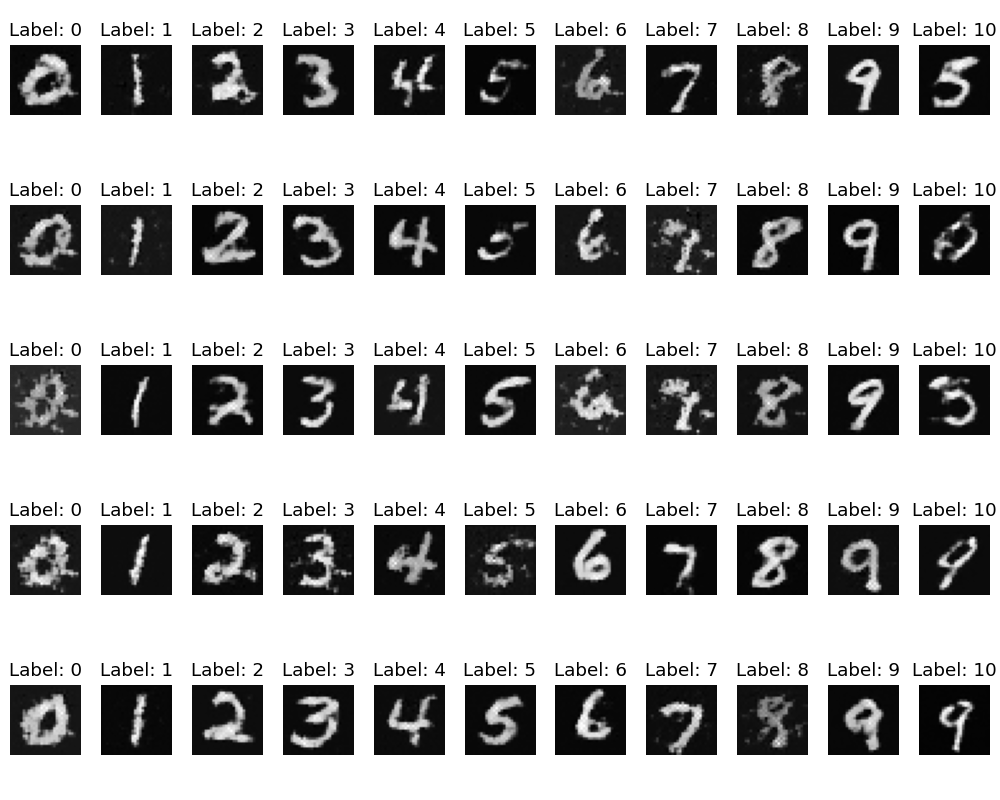
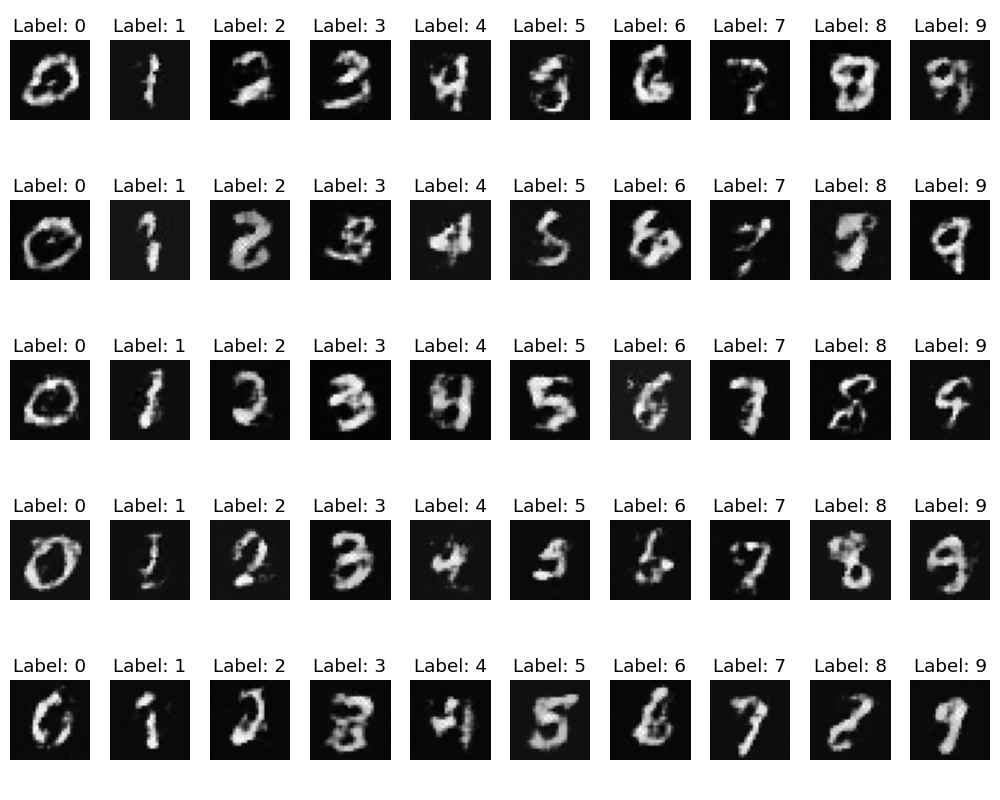
classifier guided generation

diff --git a/models/MLPFiLM.py b/models/MLPFiLM.py
@@ -17,33 +17,49 @@ class FourierFeatures(nn.Module):
 
 
 class MLPFiLM(nn.Module):
-    def __init__(self, dim=512, num_classes=11, blocks=10):
+    def __init__(self, dim=512, num_classes=10, blocks=10):
         super().__init__()
         # time → film
         self.time_embed = FourierFeatures(dim=dim)
-        # label → film
-        self.label_embed = nn.Embedding(num_classes, dim)
-        # label projection to match film dimension
-        self.label_proj  = nn.Linear(dim, dim*2)
-
         # residual blocks
         layers = [ResBlock(dim)
                   for i in range(blocks)]
         self.net   = nn.Sequential(*layers)
         self.final = nn.Linear(dim, dim)
 
-    def forward(self, x, y, t):
-        # x: [B,256], t: [B,1], y: [B] (long)
+
+        # classifier
+        self.classifier = Classifier(dim=dim, num_classes=num_classes)
+
+    def forward(self, x, t):
+        # x: [B,256], t: [B,1],
         # 1) time embedding τ(t)
-        film_time = self.time_embed(t) # [B,2*dim]
-        # 2) label embedding
-        y = self.label_embed(y).view(-1, self.label_embed.embedding_dim) # [B,dim]
-        film_label= self.label_proj(y) # [B,2*dim]
-        film = film_time + film_label          # [B,2*dim]
+        gen = x
+        film = self.time_embed(t) # [B,2*dim]
         # 3) pass through ResBlocks
         for block in self.net:
-            x = block(x, film)
-        return self.final(x)
+            gen = block(gen, film)
+        return self.final(gen), self.classifier(x, film)
+
+
+class Classifier(nn.Module):
+    def __init__(self, dim=512, num_classes=10):
+        super().__init__()
+        self.lin1 = nn.Linear(dim, dim)
+        self.lin2 = nn.Linear(dim, dim)
+        self.classifier = nn.Linear(dim, num_classes)
+        self.norm = nn.LayerNorm(dim)
+
+    def forward(self, x, film):
+        # film: [B,2*dim] → scale, shift of [B,dim]
+        scale, shift = film.chunk(2, dim=-1)
+        h = self.lin1(x)
+        h = F.silu(h)
+        h = self.lin2(h)
+        # FiLM
+        h = self.norm(h) * (1 + scale) + shift
+        h = F.silu(h)
+        return self.classifier(h)
 
 class ResBlock(nn.Module):
     def __init__(self, dim):

diff --git a/flow_matching/train.py b/flow_matching/train.py
@@ -2,7 +2,7 @@ from torch.utils.data import DataLoader, TensorDataset
 import torch
 from core.ProbabilityPaths import GaussianPath
 from core.Schedulers import LinearAlpha, LinearBeta
-from models import MLPFiLM, MLPUnet
+from models import MLPFiLM
 
 
 DEVICE = torch.device('cuda' if torch.cuda.is_available() else 'cpu')
@@ -20,8 +20,7 @@ def load_data(batch_size=512):
     )
     return dataloader
 
-# model = MLPFiLM(dim=512).to(DEVICE)  # 10 classes + 1 for 10.0 label
-model = MLPUnet(dim=512).to(DEVICE)  # 10 classes + 1 for 10.0 label
+model = MLPFiLM(dim=512).to(DEVICE)
 
 dataloader = load_data()
 prob_path = GaussianPath(
@@ -43,20 +42,15 @@ for epoch in range(num_epochs):  # Example training loop
         # sample t
         t = torch.rand(z.size(0), 1).to(DEVICE).view(-1, 1)  # Random time steps
 
-        # randomly replace labels with 10.0 at 30% of the time
-        masks = torch.rand(y.size(0)) < 0.3
-        y[masks] = 10.0
-        y = y.view(-1, 1)
-
         # sample x from the probability path
         xt = prob_path.sample_xt_cond_z(z, t)
 
         # compute the model output
-        output = model(xt, y, t)
+        u, logits = model(xt, t)
 
         # compute loss (example: MSE)
         target = prob_path.vector_field_cond_z(xt, z, t).to(DEVICE)
-        loss = torch.nn.functional.mse_loss(output, target)
+        loss = torch.nn.functional.mse_loss(u, target) + torch.nn.functional.cross_entropy(logits, y)
         loss.backward()
         optimizer.step()
         scheduler.step()

diff --git a/flow_matching/infer.py b/flow_matching/infer.py
@@ -2,13 +2,12 @@ from core.Simulators import ODESimulator, CFODESimulator
 from core.ProbabilityPaths import GaussianPath
 from core.Schedulers import LinearAlpha, LinearBeta
 import torch
-from models import MLPFiLM, MLPUnet
+from models import MLPFiLM
 from utils.decode import decode_embeddings
 
 
 
-# diffuser = MLPFiLM(dim=512)
-diffuser = MLPUnet(dim=512)
+diffuser = MLPFiLM(dim=512)
 diffuser.load_state_dict(
     torch.load('checkpoints/vector_field_guided_y.pth', map_location='cpu'))
 
@@ -26,17 +25,18 @@ def infer(y, num_steps=50):
 if __name__ == "__main__":
     # Example usage
     batch_size = 5
-    y = torch.arange(0, 11).view(-1, 1)
+    num_classes = 10
+    y = torch.arange(0, num_classes).view(-1, 1)
     y = y.repeat(batch_size, 1).view(-1, 1)  # Repeat labels for batch size of 5
 
     output = infer(y, num_steps=30)
 
     # Visualize the 30 images with labels
     import matplotlib.pyplot as plt
-    fig, axes = plt.subplots(batch_size, 11, figsize=(batch_size * 2, 8))
+    fig, axes = plt.subplots(batch_size, num_classes, figsize=(batch_size * 2, 8))
     for i in range(batch_size):
-        for j in range(11):
-            idx = i * 11 + j
+        for j in range(num_classes):
+            idx = i * num_classes + j
             axes[i, j].imshow(output[idx], cmap='gray')
             axes[i, j].axis('off')
             axes[i, j].set_title(f'Label: {y[idx].item()}')

diff --git a/core/Simulators.py b/core/Simulators.py
@@ -1,4 +1,5 @@
 import torch
+import torch.nn.functional as F
 
 
 class Simulator:
@@ -30,14 +31,26 @@ class ODESimulator(Simulator):
 
 
 class CFODESimulator(Simulator):
-    @torch.no_grad()
     def step(self, x, y, t, dt):
         m = 5
         # compute the guided vector field
-        guided_u = self.prob_path.model(x, y, t)
+        with torch.no_grad():
+            u, _ = self.prob_path.model(x, t)
 
-        # compute the unguided vector field
-        y = torch.ones_like(y) * 10
-        unguided_u = self.prob_path.model(x, y, t)
+        def cond_fn(x, t, y=None):
+            assert y is not None
+            with torch.enable_grad():
+                x_in = x.detach().requires_grad_(True)
+                film = self.prob_path.model.time_embed(t)
+                logits = self.prob_path.model.classifier(x_in, film)
+                log_probs = F.log_softmax(logits, dim=-1)
+                selected = log_probs[range(len(logits)), y.view(-1)]
+                return torch.autograd.grad(selected.sum(), x_in)[0]
 
-        return x + ((1-m)* unguided_u + m * guided_u) * dt
+        guidance = cond_fn(x, t, y)
+        # compute the vector field
+        vector_field = u + guidance * 4
+
+        # vector_field = u
+        # update the state
+        return x + vector_field * dt

diff --git a/models/__init__.py b/models/__init__.py
@@ -1,2 +1,1 @@
 from .MLPFiLM import MLPFiLM
-from .MLPUnet import MLPUnet
